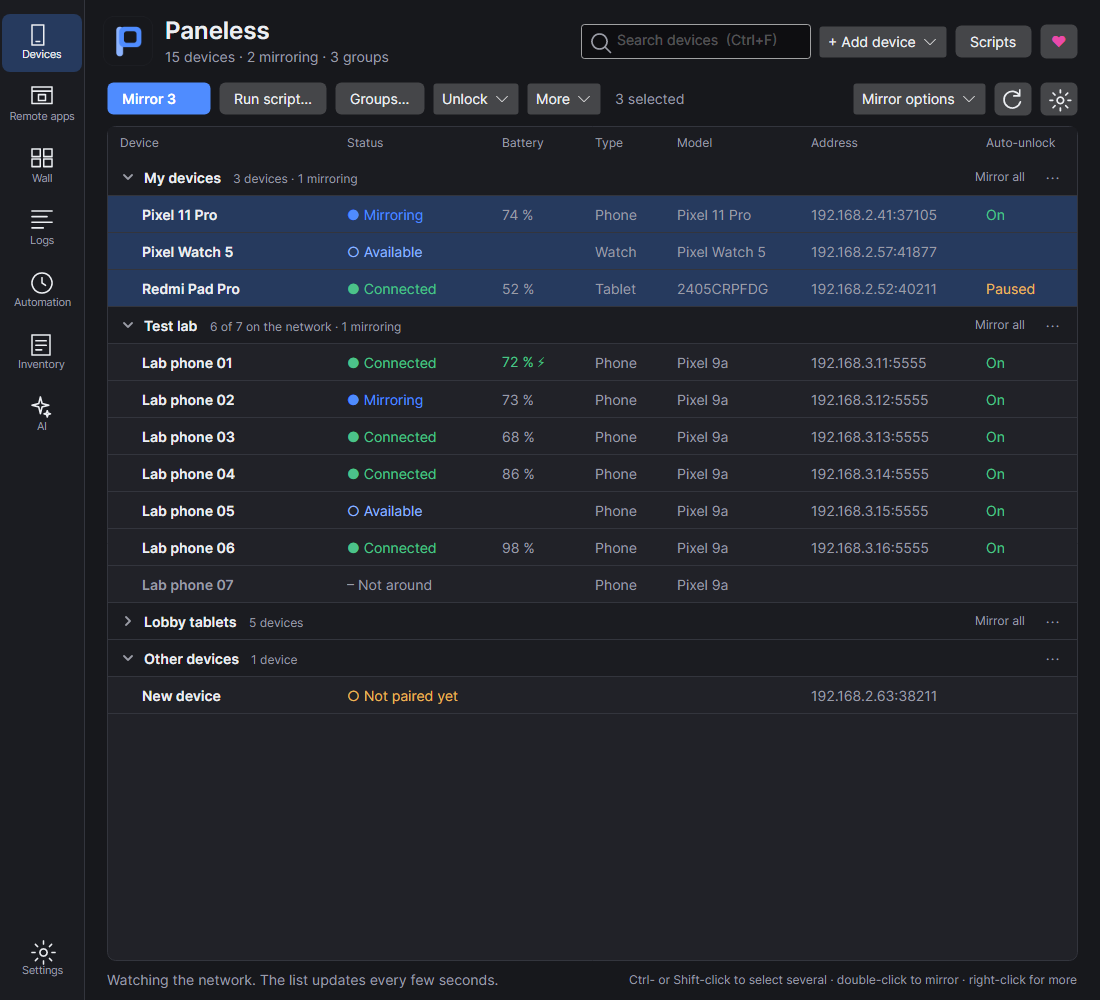
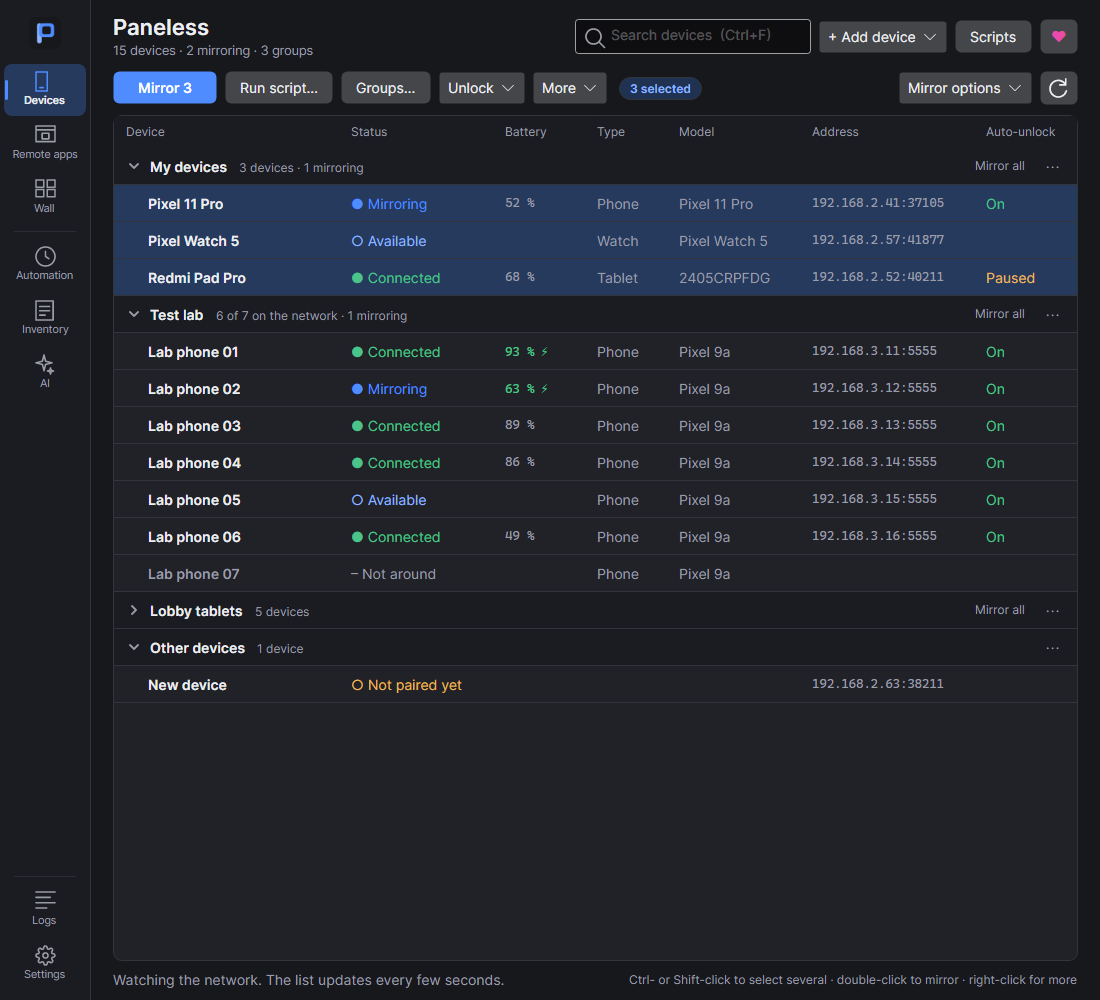
Polish sidebar navigation, header layout, and table/code styling
- Move Logs down to the bottom utility group above Settings with subtle section dividers
- Add rounded left accent indicator, active/hover icon contrast, proper gear icon for Settings, and subtle live status dots on AI (green when active) and Logs (amber when crashes seen)
- Add Ctrl+1..7 page navigation shortcuts and Ctrl+, for Settings (ignoring AltGr)
- Move brand icon to top of sidebar, remove duplicate Settings gear on Devices bar, make Search devices context-aware with inline clear button, and use a slimmer header on secondary pages
- Center button labels globally, add tinted multi-selection pill badge, use monospace tabular styling for device/inventory metrics, add GreenBrush/CodeBrush/BadgeBrush theme tokens, and refine the AI page JSON snippet box
- Refresh docs/images screenshots (main-tall, ai, wall, settings)

diff --git a/src/Paneless.App/Views/MainWindow.axaml.cs b/src/Paneless.App/Views/MainWindow.axaml.cs
@@ -35,7 +35,22 @@ public partial class MainWindow : Window
         };
         KeyDown += (_, e) =>
         {
-            if (e.Key == Key.F && e.KeyModifiers.HasFlag(KeyModifiers.Control)) { SearchBox.Focus(); SearchBox.SelectAll(); e.Handled = true; }
+            var ctrlOnly = (e.KeyModifiers & (KeyModifiers.Control | KeyModifiers.Alt | KeyModifiers.Shift)) == KeyModifiers.Control;
+            if (!ctrlOnly || Vm == null) return;
+            if (e.Key == Key.F && Vm.IsDevicesPage) { SearchBox.Focus(); SearchBox.SelectAll(); e.Handled = true; return; }
+            if (e.Key == Key.OemComma) { Vm.OpenSettingsCommand.Execute(null); e.Handled = true; return; }
+            var page = e.Key switch
+            {
+                Key.D1 => "Devices",
+                Key.D2 => "RemoteApps",
+                Key.D3 => "Wall",
+                Key.D4 => "Automation",
+                Key.D5 => "Inventory",
+                Key.D6 => "Assistants",
+                Key.D7 => "Logs",
+                _ => null,
+            };
+            if (page != null) { Vm.Page = page; e.Handled = true; }
         };
         SearchBox.KeyDown += (_, e) =>
         {
@@ -239,6 +254,22 @@ public partial class MainWindow : Window
         vm.AddRemoteApp = RemoteApps.AddAsync;
         if (OperatingSystem.IsWindows()) TrackRemoteApps(vm);
         automation.Start();
+
+        // Subtle sidebar status dots: green on AI when active, amber on Logs when crashes were seen.
+        void SyncSidebarDots()
+        {
+            vm.IsAiActive = Assistants is { Enabled: true, Paused: false };
+            vm.HasLogCrashes = Logs is { HasCrashes: true };
+        }
+        Assistants.PropertyChanged += (_, e) =>
+        {
+            if (e.PropertyName is nameof(AssistantsViewModel.Enabled) or nameof(AssistantsViewModel.Paused)) SyncSidebarDots();
+        };
+        Logs.PropertyChanged += (_, e) =>
+        {
+            if (e.PropertyName == nameof(LogsViewModel.HasCrashes)) SyncSidebarDots();
+        };
+        SyncSidebarDots();
 
         // The wall takes pictures only while it's on screen; the inventory shows what it knows when opened.
         void UpdateActive() => Wall?.SetActive(vm.IsWallPage && IsVisible && WindowState != WindowState.Minimized);

diff --git a/src/Paneless.App/ViewModels/MainViewModel.cs b/src/Paneless.App/ViewModels/MainViewModel.cs
@@ -113,12 +113,22 @@ public sealed partial class MainViewModel : ObservableObject
     [ObservableProperty] public partial string MirrorLabel { get; set; } = Loc.T("Mirror");
     [ObservableProperty] public partial string Summary { get; set; } = Loc.T("Plug in a device via USB or turn on Wireless debugging");
     [ObservableProperty] public partial string SelectionText { get; set; } = "";
+    public bool ShowSelectionBadge => !string.IsNullOrEmpty(SelectionText);
+    partial void OnSelectionTextChanged(string value) => OnPropertyChanged(nameof(ShowSelectionBadge));
+
     [ObservableProperty] public partial string Search { get; set; } = "";
+    public bool HasSearch => !string.IsNullOrEmpty(Search);
+
+    [ObservableProperty] public partial bool IsAiActive { get; set; }
+    [ObservableProperty] public partial bool HasLogCrashes { get; set; }
 
     /// <summary>True while the list is being rebuilt: selection changes then come from the rebuild, not the user.</summary>
     public bool Syncing { get; private set; }
 
-    partial void OnSearchChanged(string value) => Rebuild();
+    partial void OnSearchChanged(string value) { OnPropertyChanged(nameof(HasSearch)); Rebuild(); }
+
+    [RelayCommand]
+    void ClearSearch() => Search = "";
 
     [ObservableProperty]
     [NotifyCanExecuteChangedFor(nameof(MirrorCommand), nameof(PairCommand), nameof(AutoUnlockCommand),
